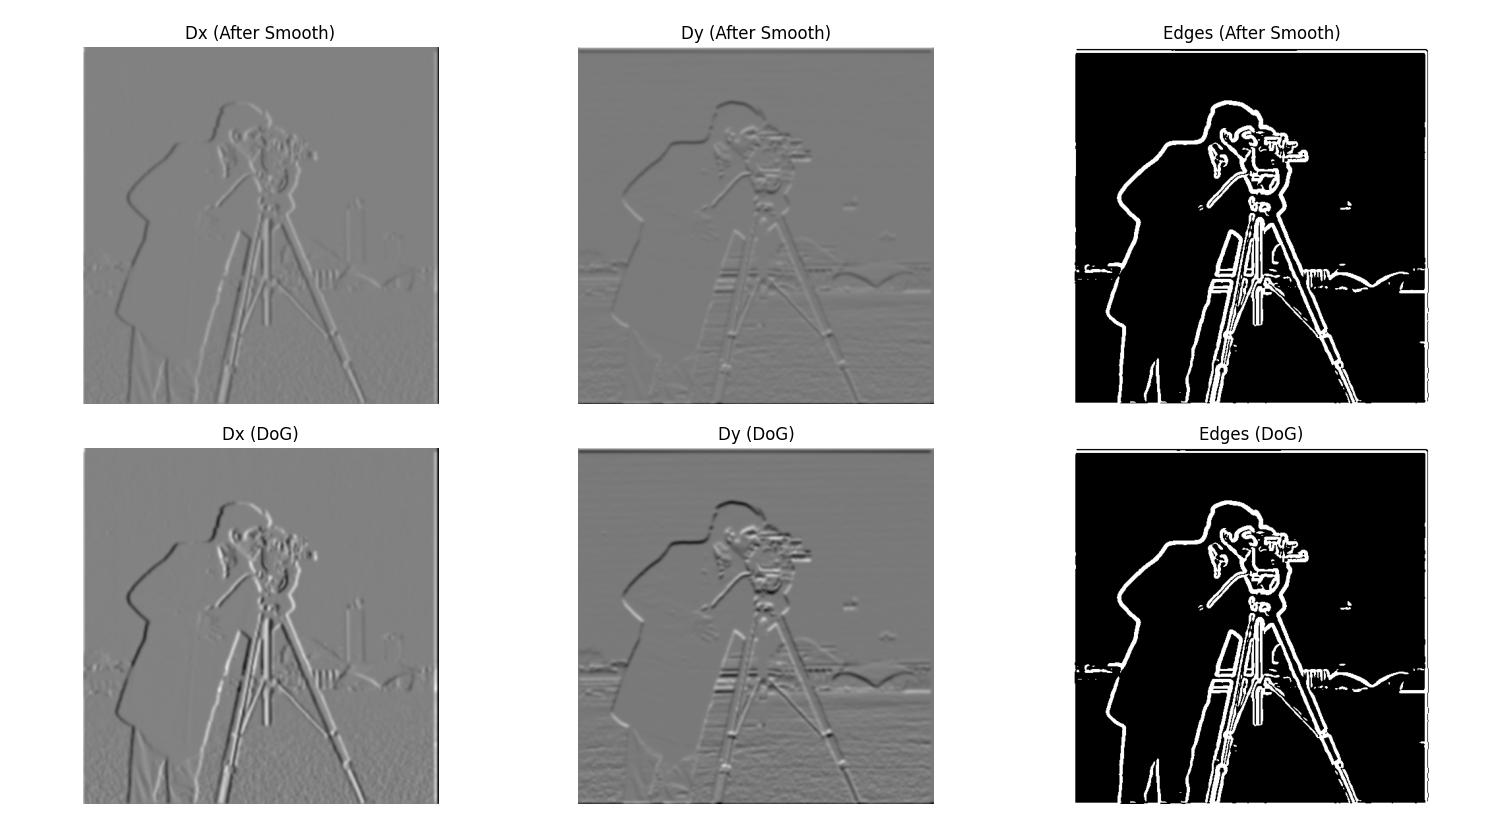
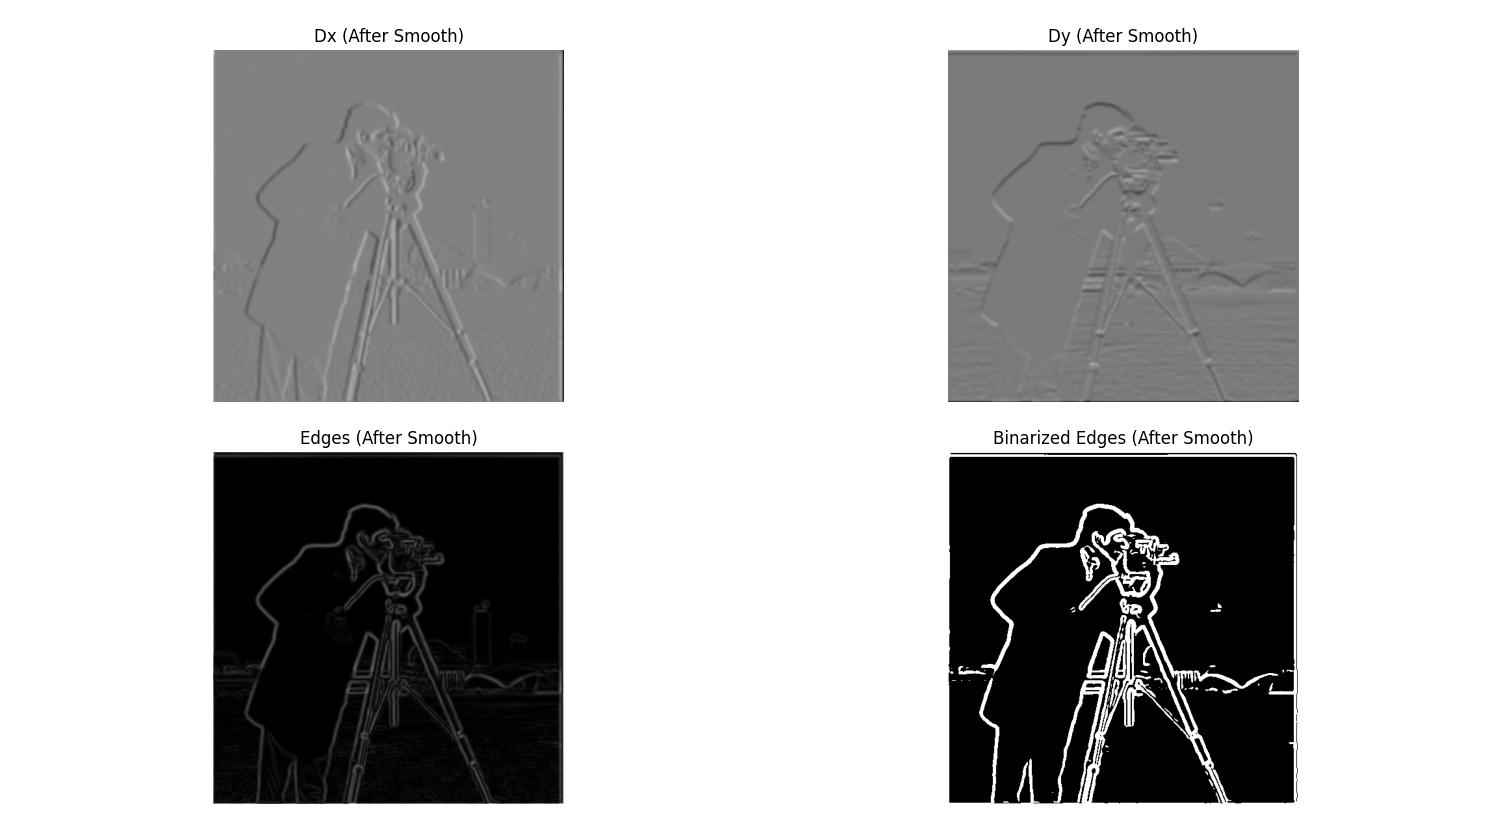
add project 2 descriptions

diff --git a/project_2/index.html b/project_2/index.html
@@ -9,41 +9,89 @@
     <h2>Jameson Liu</h2>
 
     <h3>Overview</h3>
-    
+    <p>
+        In this project, I explored 2D convolutions, filtering, frequency-domain image processing, 
+        and multi-resolution blending. 
+    </p>
+
     <h3>Part 1: Fun with Filters</h3>
 
     <h4>Part 1.1: Convolutions from Scratch!</h4>
+    <p>
+        I implemented 2D convolutions using both four nested loops and two nested loops, handling image padding with zero-fill values to avoid boundary issues.
+        I compared my implementations to SciPy's implementation in terms of runtime. 
+        The results matched well, and using fewer loops drastically improved computation time.
+        <br><br>
+        Four Loop Time: 7.978 seconds
+        <br>
+        Two Loop Time: 0.903 seconds
+        <br>
+        SciPy Time: 0.034 seconds
+    </p>
     <div class="img-item"><img src="assets/selfie.jpg"></div>
 
     <h4>Part 1.2: Finite Difference Operator</h4>
+    <p>
+        Using simple finite difference kernels, I computed the partial derivatives of a cameraman image in the x and y directions. 
+        From these derivatives, I calculated the gradient magnitude and binarized it to produce an edge map (with a threshold of 40). 
+        Choosing the right threshold was important to balance noise suppression and edge detection, 
+        and I picked it by adjusting it until the key features (person, camera, buildings, etc.) were visible, even if some of the grass was being included. If it was too low, too much noise appeared; if too high, important edges were lost.
+    </p>
     <div class="img-item"><img src="assets/finite_difference.jpg"></div>
     <div class="img-item"><img src="assets/kernels.jpg"></div>
     <div class="img-item"><img src="assets/unsmoothed.jpg"></div>
+    <div class="img-item"><img src="assets/unsmoothed_edges.jpg"></div>
 
     <h4>Part 1.3: Derivative of Gaussian (DoG) Filter</h4>
+    <p>
+        To reduce noise, I first convolved the image with a Gaussian filter, effectively blurring it, before computing finite differences. 
+        This greatly improved results, allowing me to pick a lower threshold of 20 to capture more detail without introducing noise and minor edges (such as grass).
+        Since convolving is associative, I could also combine the Gaussian and derivative kernels into a single DoG filter.
+        I constructed these filters and applied them, verifying that the results matched the previous method. 
+    </p>
     <div class="img-item"><img src="assets/smoothed.jpg"></div>
+    <div class="img-item"><img src="assets/smoothed_edges.jpg"></div>
 
     <h3>Part 2: Fun with Frequencies!</h3>
 
     <h4>Part 2.1: Image "Sharpening"</h4>
+    <p>
+        I implemented the unsharp mask filter by subtracting a blurred version of an image from the original to extract high-frequency components. 
+        Adding these components back to the original image had the effect of enhancing sharpness (although this is more of an illusion, since there is no new information/resolution added). 
+        Experiments on images like the Taj Mahal and Campanile demonstrated varying levels of sharpening and the effect of sharpening on previously blurred images.
+    </p>
     <div class="img-item"><img src="assets/taj.jpg"></div>
     <div class="img-item"><img src="assets/campanile.jpg"></div>
     <div class="img-item"><img src="assets/nyc.jpg"></div>
 
     <h4>Part 2.2: Hybrid Images</h4>
+    <p>
+        Using pairs of images, I created hybrid images by combining (averaging) the low-frequency part of one image with the high-frequency part of another, using the same subtraction method as in part 2.1. 
+        I successfully produced hybrid images for Derek + Nutmeg, Beethoven + Van Gogh, and Smile + Frown. 
+        For the Smile + Frown example, I also visualized the Fourier transforms at each step, showing how frequency components combined to produce the perceptual effect.
+        For each pair of images, I experimented with different cutoff frequencies to find the best balance between the two images; 
+        for example, I noticed that the Derek image was dominating the cat image, so I had to increase the blurring effect on Derek to let more of Nutmeg's features show through.
+    </p>
     <div class="img-item"><img src="assets/nutmeg_derek.jpg"></div>
     <div class="img-item"><img src="assets/beethoven_van_gogh.jpg"></div>
     <div class="img-item"><img src="assets/smile_frown.jpg"></div>
     <div class="img-item"><img src="assets/fft.jpg"></div>
 
     <h4>Parts 2.3 &amp; 2.4: Gaussian/Laplacian Stacks &amp; Multiresolution Blending (AKA the Oraple!)</h4>
+    <p>
+        I implemented Gaussian and Laplacian stacks to represent images at multiple levels of smoothness and detail. 
+        Gaussian stacks were created by incrementally blurring the image, while Laplacian stacks were formed by subtracting adjacent levels of the Gaussian stack to isolate frequency bands.
+        Laplacian stacks were computed for each pair of images, a Gaussian stack was computed for the blending mask, and these were used to perform multiresolution blending by combining corresponding levels of the Laplacian stacks weighted by the Gaussian mask levels.
+        This technique allowed me to seamlessly blend pairs of images, such as Apple + Orange, Night + Sunset, and Potato + Cat. 
+        I was also able to produce smooth transitions between images even with irregular masks (Potato + Cat).
+    </p>
     <div class="img-item"><img src="assets/apple_stacks.jpg"></div>
     <div class="img-item"><img src="assets/orange_stacks.jpg"></div>
-    <div class="img-item"><img src="assets/apple_orange_fig.jpg"></div>
     <div class="img-item"><img src="assets/apple_orange.jpg"></div>
-    <div class="img-item"><img src="assets/night_sunset_fig.jpg"></div>
+    <div class="img-item"><img src="assets/apple_orange_fig.jpg"></div>
     <div class="img-item"><img src="assets/night_sunset.jpg"></div>
-    <div class="img-item"><img src="assets/potato_cat_fig.jpg"></div>
+    <div class="img-item"><img src="assets/night_sunset_fig.jpg"></div>
     <div class="img-item"><img src="assets/potato_cat.jpg"></div>
+    <div class="img-item"><img src="assets/potato_cat_fig.jpg"></div>
 </body>
 </html>
